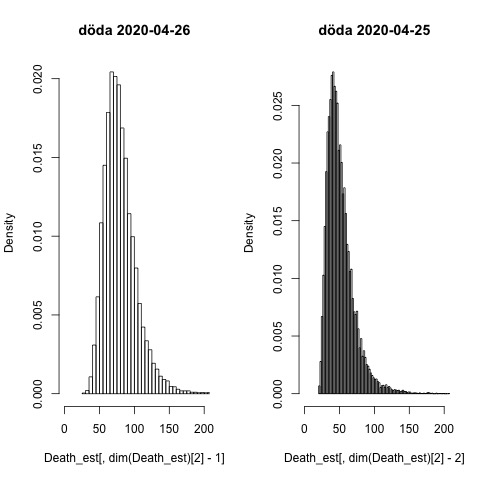
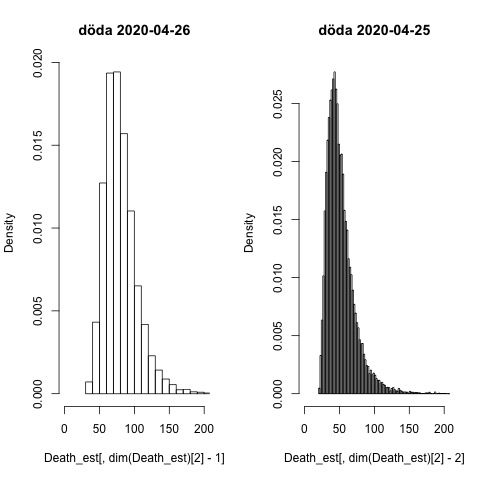
updated readme

diff --git a/README.md b/README.md
@@ -1,9 +1,12 @@
 # Capture retain model för dödstal
 
 
+Preditktion för atnatal döda:
 ![Image description](https://github.com/JonasWallin/CaptureRetainCovid/raw/master/data/dag_2020-04-27bM.jpeg)
+fördelning för dagar:
 ![Image description](https://github.com/JonasWallin/CaptureRetainCovid/raw/master/data/dag_2020-04-27_hist1bM.jpeg)
-
+Vad som förväntas rapporteras nästa dag:
+![Image description](https://github.com/JonasWallin/CaptureRetainCovid/raw/master/data/rapport_2020-04-28bM.jpeg)
 
 
 
